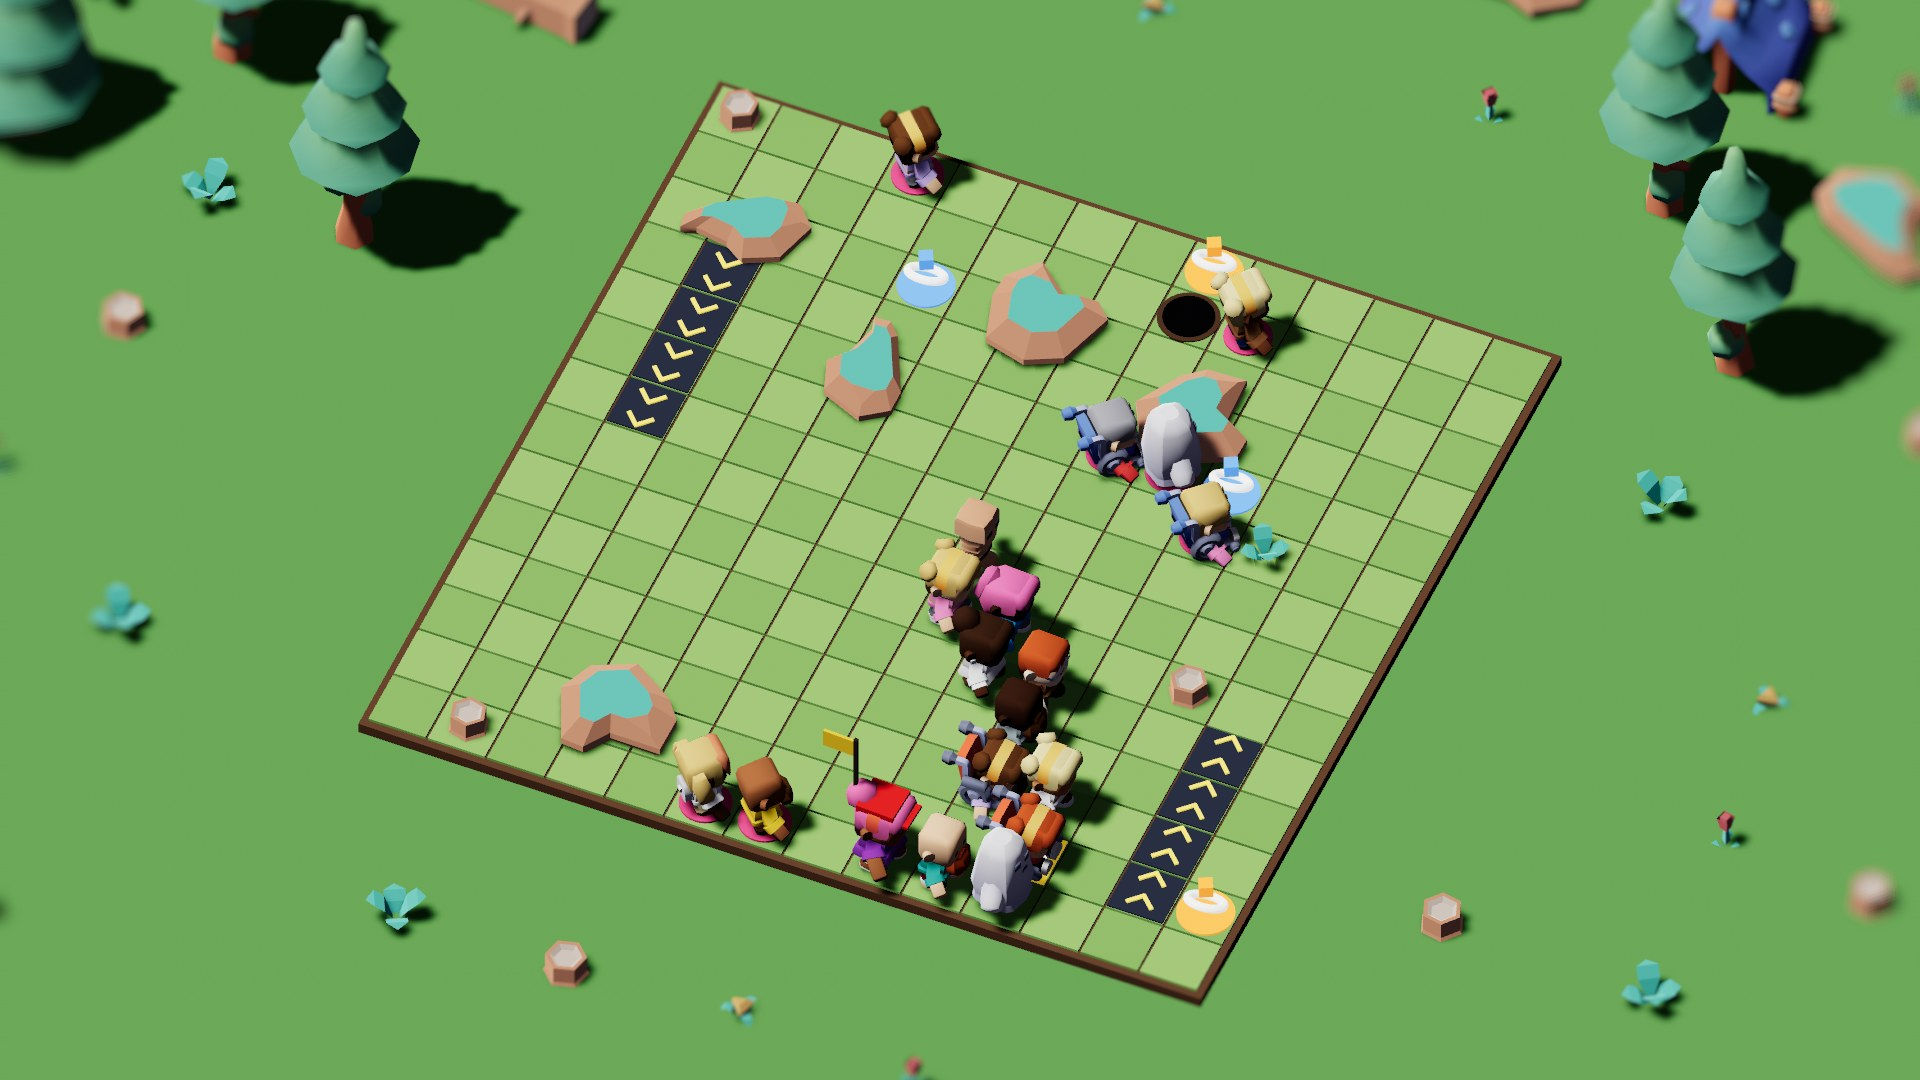
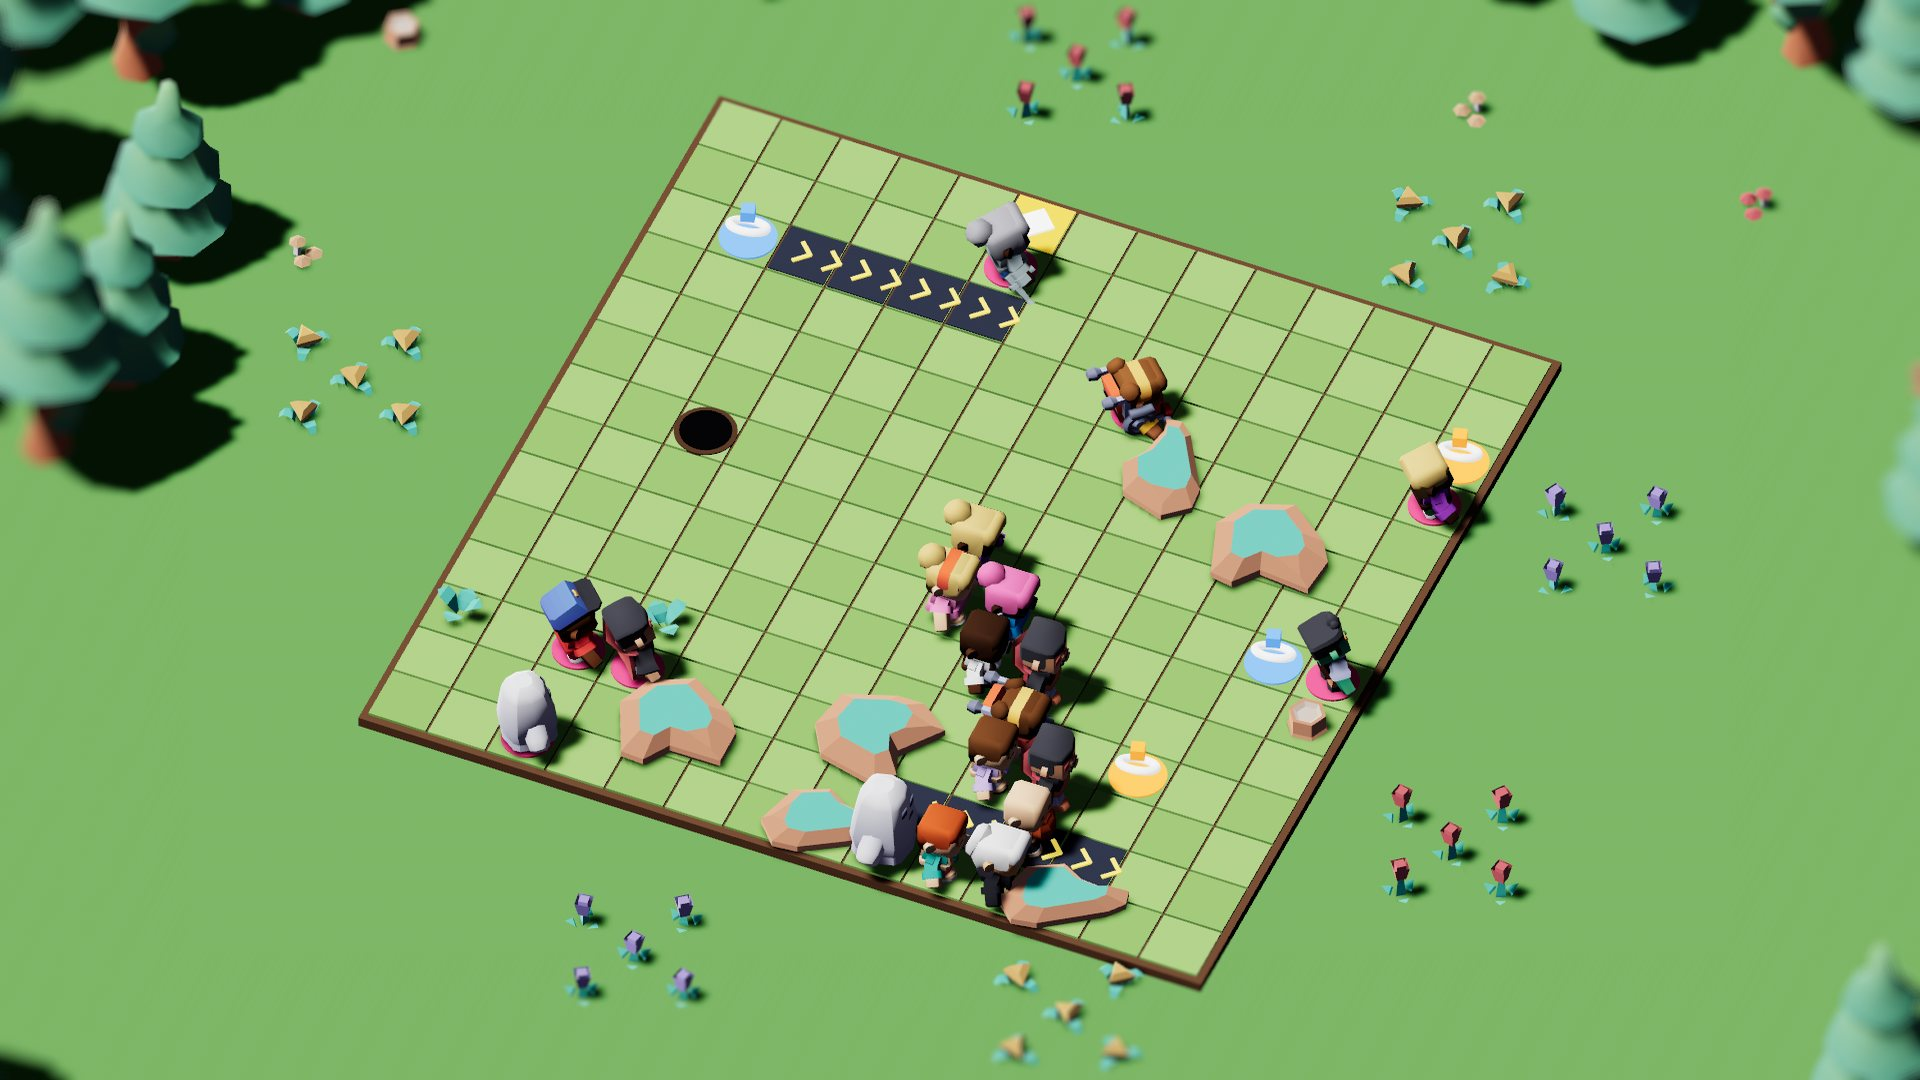
Suivez le guide ! : fiche à jour (aventure « Le grand voyage », 67 niveaux, cinq vitesses, décors recomposés), 17 nouvelles images de presse, article de blog (FR/EN)

diff --git a/site/content/jeux/snake.md b/site/content/jeux/snake.md
@@ -1,6 +1,6 @@
 +++
 title = "Suivez le guide !"
-updated = 2026-10-28T17:00:00+01:00
+updated = 2026-11-01T15:00:00+01:00
 description = "Guidez une file de touristes à travers 11 décors : attrapez les isolés, évitez les pièges et suivez l'histoire."
 [extra]
 web = true
@@ -27,13 +27,13 @@ mondes = [
 ]
 chiffres = [
   { n = "11", t = "décors" },
+  { n = "67", t = "niveaux d'aventure" },
   { n = "19", t = "personnages" },
-  { n = "10", t = "sortes de pièges" },
 ]
 visuels = ["03-jardin-public", "16-scene-bienvenue", "14-longue-file", "09-centre-ville", "15-cases-speciales", "07-ile-des-pirates"]
 captures = [
   { img = "01-menu", t = "Le menu : mode scénario, mode infini et choix du paysage" },
-  { img = "02-mode-scenario", t = "La liste des aventures du mode scénario" },
+  { img = "02-mode-scenario", t = "Le mode scénario : l'aventure « Le grand voyage »" },
   { img = "17-scene-visite", t = "Une scène parlée : personnages animés et sous-titres" },
   { img = "14-longue-file", t = "Une file de cent touristes" },
   { img = "15-cases-speciales", t = "Téléporteurs, accélérateurs, tapis roulants et trous" },
@@ -43,14 +43,14 @@ captures = [
 **Suivez le guide !** est la nouvelle vie de notre Snake (il s'appelait *À la queue leu leu*). Vous êtes le **guide** d'une file de touristes qui s'allonge à chacun de vos pas, comme une chenille de bal populaire. Attrapez les isolés pour les faire entrer dans la file, et ne touchez ni un mur ni la file elle-même.
 
 ## Le mode scénario
-Des aventures faites de **scènes parlées** (décors, personnages animés, sous-titres) qui alternent avec des **niveaux**. La première aventure, *Découverte*, est un court tutoriel. Un éditeur de niveaux nous permet d'en écrire d'autres.
+Des aventures faites de **scènes parlées** (décors, personnages animés, sous-titres) qui alternent avec des **niveaux**. Une seule aventure, **« Le grand voyage »** : un tutoriel au jardin public (7 niveaux, avec Léa, Max, Zoé et Rémi), puis les dix autres lieux, **6 niveaux chacun** : **67 niveaux** et **38 scènes parlées** en tout.
 
 ## Le mode infini
-Jouez sans fin : une nouvelle case spéciale arrive tous les quelques invités, et la file s'allonge, s'allonge…
+Jouez sans fin : une nouvelle case spéciale arrive tous les quelques invités, et la file s'allonge, s'allonge… Vous choisissez le **paysage** et l'une des **cinq vitesses**, de très lente à très rapide. L'accélération à chaque invité est plus douce, et le rival comme les trains avancent au rythme de la file.
 
 ## Onze décors
-Jardin public, désert, ruines antiques, cimetière, île des pirates, parc de loisirs, centre-ville (avenue et tramway), gare, port, village médiéval et grottes. Chacun a son décor et ses pièges.
+Jardin public, désert, ruines antiques, cimetière, île des pirates, parc de loisirs, centre-ville (avenue et tramway), gare, port, village médiéval et grottes. Chacun a son décor, recomposé à la main : clairière et campement, oasis, colonnade, cimetière clos, allées du parc, rues en croix, voies de gare, pontons, château, grotte aux lumières vacillantes.
 
 ## Pièges et personnages
 **10 sortes de pièges** : blocs, trous, téléporteurs par paires, accélérateurs, tapis roulants, pontons fragiles, herses, éboulements, guide rival qui emmène vos touristes, et trains. Les plateaux prennent toutes les formes, jusqu'aux îlots reliés par des téléporteurs.
-**19 personnages** : 12 touristes, 4 monstres du cimetière et 3 personnes en fauteuil roulant, chacun avec **96 apparences**. L'interface existe en **5 langues** (les aventures sont en français pour l'instant).
+**19 personnages** : 12 touristes, 4 monstres du cimetière et 3 personnes en fauteuil roulant, chacun avec **96 apparences**. L'interface existe en **5 langues** (l'aventure est en français pour l'instant).

diff --git a/site/content/jeux/snake.en.md b/site/content/jeux/snake.en.md
@@ -1,6 +1,6 @@
 +++
 title = "Follow the Guide!"
-updated = 2026-10-28T17:00:00+01:00
+updated = 2026-11-01T15:00:00+01:00
 description = "Lead a line of tourists through 11 different settings: catch the stragglers, dodge the traps, and follow the story."
 [extra]
 web = true
@@ -27,13 +27,13 @@ mondes = [
 ]
 chiffres = [
   { n = "11", t = "settings" },
+  { n = "67", t = "adventure levels" },
   { n = "19", t = "characters" },
-  { n = "10", t = "kinds of traps" },
 ]
 visuels = ["03-jardin-public", "16-scene-bienvenue", "14-longue-file", "09-centre-ville", "15-cases-speciales", "07-ile-des-pirates"]
 captures = [
   { img = "01-menu", t = "The menu: story mode, endless mode and scenery choice" },
-  { img = "02-mode-scenario", t = "The story mode adventure list" },
+  { img = "02-mode-scenario", t = "Story mode: the adventure The Grand Journey" },
   { img = "17-scene-visite", t = "A spoken scene: animated characters and subtitles" },
   { img = "14-longue-file", t = "A line of a hundred tourists" },
   { img = "15-cases-speciales", t = "Teleporters, boosters, conveyors and holes" },
@@ -43,14 +43,14 @@ captures = [
 **Follow the Guide!** is the new life of our Snake (it used to be *Conga Line*). You are the **guide** of a line of tourists that grows with every step, like a conga line at a village dance. Catch the stragglers to bring them into the line, and never touch a wall or the line itself.
 
 ## Story mode
-Adventures made of **spoken scenes** (settings, animated characters, subtitles) alternating with **levels**. The first adventure, *Discovery*, is a short tutorial. A level editor lets us write more.
+Adventures made of **spoken scenes** (settings, animated characters, subtitles) alternating with **levels**. A single adventure, **"The Grand Journey"**: a tutorial in the public garden (7 levels, with Léa, Max, Zoé and Rémi), then the ten other settings, **6 levels each**: **67 levels** and **38 spoken scenes** in all.
 
 ## Endless mode
-Play without end: a new special tile arrives every few guests, and the line gets longer and longer.
+Play without end: a new special tile arrives every few guests, and the line gets longer and longer. You pick the **scenery** and one of **five speeds**, from very slow to very fast. The speed-up per guest is gentler, and the rival and the trains move to the line's rhythm.
 
 ## Eleven settings
-Public garden, desert, ancient ruins, graveyard, pirate island, theme park, downtown (avenue and tram), station, harbour, medieval village and caves. Each one has its own scenery and its own traps.
+Public garden, desert, ancient ruins, graveyard, pirate island, theme park, downtown (avenue and tram), station, harbour, medieval village and caves. Each one has its own hand-composed scenery: clearing and camp, oasis, colonnade, walled graveyard, park paths, crossing streets, station tracks, jetties, castle, a cave with flickering lights.
 
 ## Traps and characters
 **10 kinds of traps**: blocks, holes, paired teleporters, boosters, conveyors, fragile jetties, portcullises, rockfalls, a rival guide who takes your tourists, and trains. Boards come in every shape, even islands linked by teleporters.
-**19 characters**: 12 tourists, 4 graveyard monsters and 3 wheelchair users, each with **96 appearances**. The interface comes in **5 languages** (adventures are in French for now).
+**19 characters**: 12 tourists, 4 graveyard monsters and 3 wheelchair users, each with **96 appearances**. The interface comes in **5 languages** (the adventure is in French for now).

diff --git a/site/content/blog/snake/2026-11-01-grand-voyage.md b/site/content/blog/snake/2026-11-01-grand-voyage.md
@@ -1,0 +1,25 @@
++++
+title = "Le grand voyage, et des décors refaits"
+date = 2026-11-01
+slug = "grand-voyage"
+[extra]
+image = "jeux/snake/03-jardin-public.jpg"
++++
+
+Suivez le guide ! s'enrichit d'une vraie aventure, et ses onze décors ont été entièrement recomposés.
+
+## Une seule aventure : « Le grand voyage »
+Le mode scénario propose maintenant une aventure unique, qui commence par un **tutoriel au jardin public** : 7 niveaux, avec Léa, Max, Zoé et Rémi. Elle emmène ensuite la file dans les **dix autres lieux**, **6 niveaux chacun**. En tout : **67 niveaux** et **38 scènes parlées** entre les niveaux.
+
+## Des décors recomposés
+Fini les décors semés au hasard : chaque lieu est maintenant composé à la main, petit près du plateau, plus grand au loin.
+
+- **Jardin public** : une clairière au milieu de la forêt, avec un petit campement et un feu.
+- **Désert** : du sable nu, de grands cactus bien espacés, un bivouac et trois palmiers.
+- **Ruines** : une esplanade dallée, une colonnade et une arche.
+- **Cimetière** : un enclos de grilles, des tombes en rangs et des lampadaires.
+- **Ville** : quatre grandes rues qui se croisent, des routes plus larges et des véhicules plus gros.
+- **Grottes** : une salle fermée par des parois de roche, des braseros et des lanternes qui vacillent, des champignons lumineux et un petit lac.
+
+## Un mode infini plus doux
+Le mode infini a **cinq vitesses**, de très lente à très rapide, et la file accélère deux fois moins vite à chaque invité. Le guide rival et les trains avancent maintenant case par case, au rythme de la file. Et la musique est coupée tant que vous ne l'avez pas réglée.

diff --git a/site/content/blog/snake/2026-11-01-grand-voyage.en.md b/site/content/blog/snake/2026-11-01-grand-voyage.en.md
@@ -1,0 +1,25 @@
++++
+title = "The Grand Journey, and reworked settings"
+date = 2026-11-01
+slug = "grand-voyage"
+[extra]
+image = "jeux/snake/03-jardin-public.jpg"
++++
+
+Follow the Guide! gains a proper adventure, and its eleven settings have been entirely recomposed.
+
+## A single adventure: "The Grand Journey"
+Story mode now offers a single adventure, starting with a **tutorial in the public garden**: 7 levels, with Léa, Max, Zoé and Rémi. It then takes the line through the **ten other settings**, **6 levels each**. In all: **67 levels** and **38 spoken scenes** between them.
+
+## Recomposed settings
+No more scenery sprinkled at random: every setting is now composed by hand, small near the board, bigger in the distance.
+
+- **Public garden**: a clearing in the middle of the forest, with a small camp and a fire.
+- **Desert**: bare sand, big well-spaced cacti, a bivouac and three palm trees.
+- **Ruins**: a paved esplanade, a colonnade and an arch.
+- **Graveyard**: a fenced enclosure, rows of tombs and street lamps.
+- **City**: four big streets crossing, wider roads and bigger vehicles.
+- **Caves**: a room closed by rock walls, braziers and lanterns that flicker, glowing mushrooms and a small lake.
+
+## A gentler endless mode
+Endless mode has **five speeds**, from very slow to very fast, and the line speeds up half as fast with each guest. The rival guide and the trains now move one tile at a time, to the line's rhythm. And music is off until you have set it.
